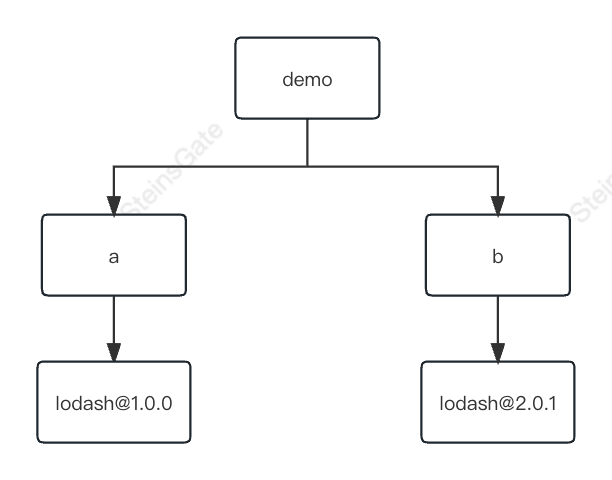
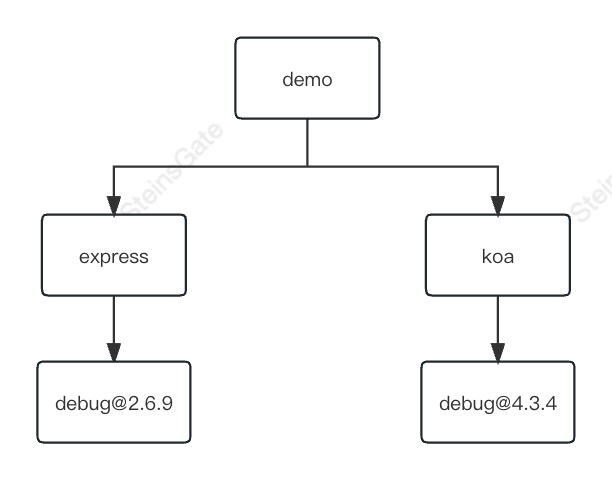
feat: 图片更改

diff --git a/docs/node/npm/source.md b/docs/node/npm/source.md
@@ -458,7 +458,7 @@ package-lock.json 组成
 
 ### 依赖结构不确定
 
-假如项目依赖两个包 a 和 b，这两个包的依赖又是这样的:
+假如项目依赖两个包 express 和 koa，这两个包的依赖又是这样的:
 
 ![depend_one](./image/depend_one.jpg)
 
@@ -470,7 +470,7 @@ package-lock.json 组成
 
 ![depend_three](./image/depend_three.jpg)
 
-答案是: 都有可能。取决于 a 和 b 在 package.json 中的位置，如果 a 声明在前面，那么就是前面的结构，否则是后面的结构。
+答案是: 都有可能。取决于 express 和 koa 在 package.json 中的位置，如果 express 声明在前面，那么就是前面的结构，否则是后面的结构。
 这就是为什么会产生依赖结构的不确定问题，也是 lock 文件诞生的原因之一，无论是 package-lock.json(npm 5.x 才出现)还是 yarn.lock，都是为了保证 install 之后都产生确定的 node_modules 结构。
 
 ### 扁平化导致可以非法访问没有声明过依赖的包（幽灵依赖）
@@ -485,10 +485,7 @@ package-lock.json 组成
   "name": "demo",
   "main": "index.js",
   "dependencies": {
-    "minimatch": "^3.0.4"
-  },
-  "devDependencies": {
-    "rimraf": "^2.6.2"
+    "express": "^3.0.4"
   }
 }
 ```
@@ -497,17 +494,17 @@ package-lock.json 组成
 
 ```json
 // index.js
-var minimatch = require("minimatch")
-var expand = require("brace-expansion");  // ???
-var glob = require("glob")  // ???
+const cookie = require("cookie");  // ???
+
+// （更多使用那些库的代码)
 
 // （更多使用那些库的代码)
 ```
 
-有两个库根本没有被作为依赖定义在 package.json 文件中。那这到底是怎么跑起来的呢？
-原来 brace-expansion 是 minimatch 的依赖，而 glob 是 rimraf 的依赖。在安装的时候，NPM 会打平他们的文件夹到 node_modules。NodeJS 的 require() 函数能够在依赖目录找到它们，因为 require() 在查找文件夹时 根本不会受 package.json 文件 影响。
+这个库根本没有被作为依赖定义在 package.json 文件中。那这到底是怎么跑起来的呢？
+原来 cookie 是 express 的依赖，在安装的时候，NPM 会打平他们的文件夹到 node_modules。NodeJS 的 require() 函数能够在依赖目录找到它们，因为 require() 在查找文件夹时 根本不会受 package.json 文件 影响。
 
-这是很不安全的，当未来 minimatch 中不再依赖 brace-expansion 时将会导致项目报错，因为那时整个项目可能没有如何包依赖了 brace-expansion，也就不会在顶层依赖树中有 brace-expansion，所以项目一定会因为找不到 brace-expansion 这个包而报错。
+这是很不安全的，当未来 express 中不再依赖 cookie 时将会导致项目报错，因为那时如果整个项目可能没有如何包依赖了 cookie，也就不会在顶层依赖树中有 cookie，所以项目一定会因为找不到 cookie 这个包而报错。
 
 ### 又慢又大
 

diff --git a/docs/node/npm/pnpm.md b/docs/node/npm/pnpm.md
@@ -49,6 +49,8 @@ pnpm 引入了另一套依赖管理策略：内容寻址存储。
 
 该策略会将包安装在系统的全局 store 中，依赖的每个版本只会在系统中安装一次。
 
+![pnpm_store](image/pnpm_store.jpg)
+
 在引用项目 node_modules 的依赖时，会通过硬链接与符号链接在全局 store 中找到这个文件。
 
 node_modules 中每个包的每个文件都是来自内容可寻址存储的硬链接。 假设您安装了依赖于 bar@1.0.0 的 foo@1.0.0。 pnpm 会将两个包硬链接到 node_modules 如下所示：
